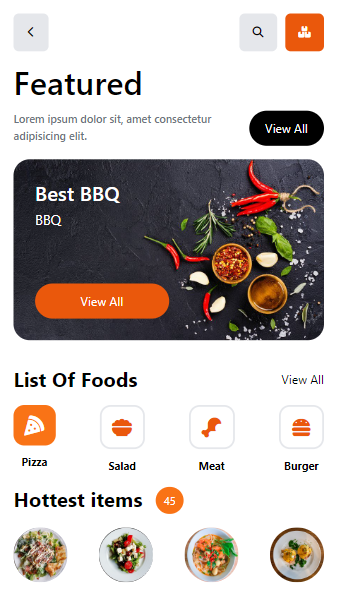
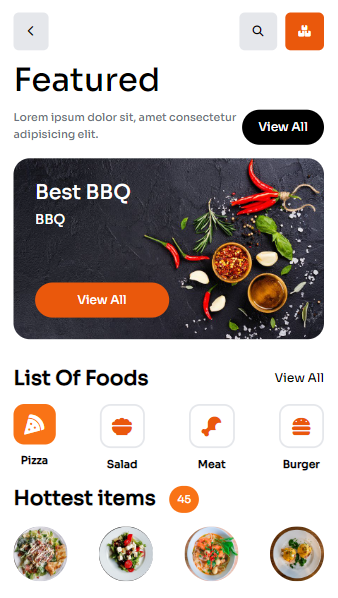
mob-website

diff --git a/mob-website/menu.html b/mob-website/menu.html
@@ -1,0 +1,97 @@
+<!DOCTYPE html>
+<html lang="en">
+<head>
+    <meta charset="UTF-8">
+    <meta http-equiv="X-UA-Compatible" content="IE=edge">
+    <meta name="viewport" content="width=device-width, initial-scale=1.0">
+    
+    <link rel="preconnect" href="https://fonts.googleapis.com">
+    <link rel="preconnect" href="https://fonts.gstatic.com" crossorigin>
+    <link href="https://fonts.googleapis.com/css2?family=Montserrat:wght@500&family=Sora:wght@500&display=swap" rel="stylesheet">
+    <script src="https://kit.fontawesome.com/4b7aa54d95.js" crossorigin="anonymous"></script>
+    <script src="https://cdn.tailwindcss.com?plugins=forms,typography,aspect-ratio,line-clamp"></script>
+    <link rel="stylesheet" href="https://cdn.jsdelivr.net/npm/swiper@8/swiper-bundle.min.css"
+/>
+    <title>Menu</title>
+    <style>
+        body {
+            font-family: 'Montserrat', sans-serif;
+font-family: 'Sora', sans-serif;
+    }
+    </style>
+</head>
+<body>
+    <body>
+    <section class="p-5 bg-gray-50 h-screen">
+        <form class="flex items-center w-full ">   
+            <label for="simple-search " class="sr-only">Search</label>
+            <div class="relative w-full ">
+                <div class="absolute inset-y-0 left-0 flex items-center pl-3 pointer-events-none">
+                    <svg aria-hidden="true" class="w-7 h-7 text-gray-500 dark:text-gray-400" fill="currentColor" viewBox="0 0 20 20" xmlns="http://www.w3.org/2000/svg"><path fill-rule="evenodd" d="M8 4a4 4 0 100 8 4 4 0 000-8zM2 8a6 6 0 1110.89 3.476l4.817 4.817a1 1 0 01-1.414 1.414l-4.816-4.816A6 6 0 012 8z" clip-rule="evenodd"></path></svg>
+                </div>
+                <input type="text" id="simple-search" class="rounded-full text-gray-900 border-0 bg-gray-200 w-full pl-14 p-4  " placeholder="Search Food" required>
+            </div>
+        </form>
+        <div class="flex flex-wrap flex-col  mt-5">
+            <img class="flex flex-col justify-start h-56 bg-cover object-cover w-full rounded-3xl " src="images/Fresh herbs and spices on black stone table featuring herb, condiment, and.jfif">
+            <h1 class="font-bold text-3xl mt-5">Cafe De Bambaa</h1>
+            <p class=" font-bold text-gray-400">Cola+Fries n Drinks<i class="fa-solid fa-star ml-10  text-orange-600"> 4.3k</i> </p>
+        </div>
+        <div class="flex justify-between mt-5">
+            <h2 class="text-black font-bold text-3xl">Recent items</h2>
+            <button class=" text-orange-600 border-0 focus:outline-none hover:text-orange-700 rounded-full text-lg">View All</button>
+        </div>
+        <div class="container flex mt-5 ">
+            <img src="images/pexels-brett-jordan-2297961.jpg" class="w-20 rounded-3xl">
+            <div class=" flex flex-col justify-center ml-5">
+               <h1 class="text-2xl font-bold" >Mulberry Pizza by Josh</h1>
+              <h2 class="text-gray-400 font-bold text-sm">Cola + Waffles n Food</h2>
+              <p class=" font-bold text-gray-400 text-sm "><i class="fa-solid fa-star text-orange-600"> 4k</i> (289 Ratings)</p>
+            </div>
+            
+        </div>
+        <div class="container flex mt-5 ">
+            <img src="images/pexels-jan-n-g-u-y-e-n-🍁-699953.jpg" class="w-20 rounded-3xl">
+            <div class=" flex flex-col justify-center ml-5">
+               <h1 class="text-2xl font-bold" >Pizza rush hours</h1>
+              <h2 class="text-gray-400 text-sm font-bold ">Cola + Waffles n Food</h2>
+              <p class=" font-bold text-gray-400 text-sm"><i class="fa-solid fa-star text-orange-600"> 3k</i> (254 Ratings)</p>
+            </div>
+            
+        </div>
+        <div class="container flex mt-5 ">
+            <img src="images/pexels-iina-luoto-1211887.jpg" class="w-20 rounded-3xl">
+            <div class=" flex flex-col justify-center ml-5">
+               <h1 class="text-2xl font-bold " >Barita</h1>
+              <h2 class="text-gray-400 font-bold text-sm">Cola + Waffles n Food</h2>
+              <p class=" font-bold text-gray-400 text-sm"><i class="fa-solid fa-star text-orange-600"> 3.5k</i> (124 Ratings)</p>
+            </div>
+            
+        </div>
+          <button class="flex mx-auto mt-20 text-white bg-indigo-500 border-0 py-2 px-8 focus:outline-none hover:bg-indigo-600 rounded text-lg">Button</button>
+        </div>
+      </section>
+        <div class="footer fixed bottom-0 w-full flex flex-wrap justify-between bg-white ">
+            <div class="left-nav-bar flex basis-2/6 relative z-10 p-5 justify-between text-gray-600 items-end "> 
+                <i class="fa-solid fa-boxes-stacked text-2xl"></i>
+                <i class="fa-solid fa-heart text-2xl"></i>
+            </div>
+            <div class="before:content-[''] relative top-0 h-5 -left-11 w-8 bg-gray-50"> 
+                <div class="psuedo before:content-['']  top-0 h-5 -left-11 w-8 rounded-tr-full bg-white"></div>
+                </div>
+            <div class="rounded-br-full -mt-10 flex flex-col basis-1/5 rounded-bl-full  -mr-16 -ml-16 rounded-tl-3xl rounded-tr-3xl bg-gray-50">
+                <div class="center-nav-bar p-8 just9ify-center mr-10 ml-10 rounded-full bg-black">
+                  <a class="" href="http://127.0.0.1:5500/index.html">  <i class="fa-solid fa-house text-3xl text-white"></i></a>
+                </div> 
+            </div>
+            <div class="after:content-[''] relative h-5 -right-11 w-8 bg-gray-50">
+                <div class=" after:content-[''] top-0 h-5 -right-11 w-8 rounded-tl-full bg-white"></div>
+                </div>    
+            <div class="right-nav-bar flex basis-2/6 relative z-10 rounded-tl-3xl p-5 justify-between text-gray-600 items-end">
+                <i class="fa-solid fa-user text-2xl"></i>
+                <i class="fa-solid fa-bars text-2xl"></i>
+            </div>
+        </div>
+    
+</body>
+</html>

diff --git a/mob-website/order.html b/mob-website/order.html
@@ -4,18 +4,27 @@
     <meta charset="UTF-8">
     <meta http-equiv="X-UA-Compatible" content="IE=edge">
     <meta name="viewport" content="width=device-width, initial-scale=1.0">
-    <link rel="stylesheet" href="css/styles.css">
+    <link rel="preconnect" href="https://fonts.googleapis.com">
+<link rel="preconnect" href="https://fonts.gstatic.com" crossorigin>
+<link href="https://fonts.googleapis.com/css2?family=Montserrat:wght@500&family=Sora:wght@500&display=swap" rel="stylesheet">
+    
     <script src="https://kit.fontawesome.com/4b7aa54d95.js" crossorigin="anonymous"></script>
     <script src="https://cdn.tailwindcss.com?plugins=forms,typography,aspect-ratio,line-clamp"></script>
     <link rel="stylesheet" href="https://cdn.jsdelivr.net/npm/swiper@8/swiper-bundle.min.css"
 />
     <title>Order</title>
+    <style>
+        body {
+            font-family: 'Montserrat', sans-serif;
+font-family: 'Sora', sans-serif;
+    }
+    </style>
 </head>
 <body class="flex flex-col min-h-screen">
     <section class="body-font h-screen p-5 ">
         <div class="container flex flex-wrap justify-between ">
-            <i class="fa-solid fa-chevron-left bg-gray-200 rounded-lg mx-auto p-5 ml-0"></i>
-            <i class="fa-solid fa-boxes-stacked p-5 bg-gray-200 text-black rounded-lg ml-3"></i>
+          <a class="bg-gray-200 rounded-lg mx-auto p-5 px-6 ml-0" href="http://127.0.0.1:5500/index.html"> <i class="fa-solid fa-chevron-left "></i></a>
+           <a class="p-5 bg-gray-200 text-black rounded-lg px-6 ml-3" href="#"> <i class="fa-solid fa-boxes-stacked "></i></a>
         </div>
         <div class="slider-sec mt-5">
             <div class="swiper h-fit ">
@@ -26,8 +35,8 @@
                   ...
                 </div>
                 <!-- <div class="swiper-pagination"></div> -->
-                <div class="swiper-button-prev text-black"></div>
-                <div class="swiper-button-next text-black"></div>
+                <!-- <div class="swiper-button-prev text-black"></div>
+                <div class="swiper-button-next text-black"></div> -->
                 <!-- <div class="swiper-scrollbar"></div> -->
               </div>
         </div>
@@ -66,22 +75,21 @@
             <div class=" fixed bottom-0 flex flex-wrap justify-between items-center p-2 rounded-full w-full bg-black mt-auto ">
                 <button class="text-black font-bold bg-white py-4 px-8 border-0 focus:outline-none hover:text-orange-700 rounded-full text-lg">$70</button>
                 <p class="text-center font-bold text-white text-2xl">Add to Cart</p>
-                <button class="text-black bg-white py-4 px-8 border-0 focus:outline-none hover:text-orange-700 rounded-full text-lg">$70</button>
+                <i class="fa-solid fa-bag-shopping text-black bg-white py-4 px-8 border-0 hover:text-orange-700 rounded-full text-lg"></i>
             </div>
         </div>
     </section>
     <script src="https://cdn.jsdelivr.net/npm/swiper@8/swiper-bundle.min.js"></script>
     <script>
         const swiper = new Swiper('.swiper', {
-  // Optional parameters
+  
   
 
-  // If we need pagination
-  pagination: {
+ pagination: {
     el: '.swiper-pagination',
+    clickable: true,
   },
 
-  // Navigation arrows
   navigation: {
     nextEl: '.swiper-button-next',
     prevEl: '.swiper-button-prev',

diff --git a/mob-website/products.html b/mob-website/products.html
@@ -4,31 +4,40 @@
     <meta charset="UTF-8">
     <meta http-equiv="X-UA-Compatible" content="IE=edge">
     <meta name="viewport" content="width=device-width, initial-scale=1.0">
-    <link rel="stylesheet" href="css/styles.css">
+    <link rel="preconnect" href="https://fonts.googleapis.com">
+<link rel="preconnect" href="https://fonts.gstatic.com" crossorigin>
+<link href="https://fonts.googleapis.com/css2?family=Montserrat:wght@500&family=Sora:wght@500&display=swap" rel="stylesheet">
     <script src="https://kit.fontawesome.com/4b7aa54d95.js" crossorigin="anonymous"></script>
     <script src="https://cdn.tailwindcss.com?plugins=forms,typography,aspect-ratio,line-clamp"></script>
     <title>Featured</title>
+    <style>
+        body {
+            font-family: 'Montserrat', sans-serif;
+font-family: 'Sora', sans-serif;
+    }
+    </style>
 </head>
 <body>
+    
     <section class="body-font h-screen p-5">
         <div class="container flex flex-wrap  ">
-            <i class="fa-solid fa-chevron-left bg-gray-200 rounded-lg mx-auto p-5 ml-0"></i>
+          <a class="bg-gray-200 rounded-lg mx-auto p-5 px-6 ml-0" href="http://127.0.0.1:5500/index.html">  <i class="fa-solid fa-chevron-left "></i></a>
             <div class="icons flex justify-">
-                <i class="fa-solid fa-magnifying-glass p-5 bg-gray-200 rounded-lg"></i>
-                <i class="fa-solid fa-boxes-stacked p-5 bg-orange-600 text-white rounded-lg ml-3"></i>
+            <a class="p-5 bg-gray-200 rounded-lg" href="http://127.0.0.1:5500/menu.html">    <i class="fa-solid fa-magnifying-glass "></i></a>
+            <a class="p-5 bg-orange-600 text-white rounded-lg ml-3" href="#"><i class="fa-solid fa-boxes-stacked "></i></a>
             </div>
         </div>
         <h1 class="flex flex-wrap text-5xl mt-5 font-medium">Featured</h1>
         <div class="flex justify-between mt-5">
             <p class="text-gray-500 font-medium">Lorem ipsum dolor sit, amet consectetur <br>adipisicing elit.</p>
-            <button class=" text-white bg-black border-0 py-3 px-6 focus:outline-none hover:bg-orange-700 rounded-full text-lg">View All</button>
+          <a href="http://127.0.0.1:5500/menu.html">  <button class=" text-white bg-black border-0 py-3 px-6 focus:outline-none hover:bg-orange-700 rounded-full text-lg">View All</button></a>
         </div>
         </div>
         <div class="flex flex-wrap justify-center mt-5">
             <div class="menu flex flex-col justify-start lg:w-2/6 md:w-3/6 w-full mb-10 object-cover bg-cover object-center p-8 rounded-3xl" style="background-image: url(images/Fresh\ herbs\ and\ spices\ on\ black\ stone\ table\ featuring\ herb\,\ condiment\,\ and.jfif);">
                 <h1 class="text-white text-3xl font-medium">Best BBQ</h1>
                 <h2 class="text-white mt-2 text-xl">BBQ</h2>
-                <button class=" text-white w-1/2 bg-orange-600 border-0 py-3 px-6 mt-20 focus:outline-none hover:bg-orange-700 rounded-full text-lg">View All</button>
+                <a href="http://127.0.0.1:5500/menu.html"> <button class=" text-white w-1/2 bg-orange-600 border-0 py-3 px-6 mt-20 focus:outline-none hover:bg-orange-700 rounded-full text-lg">View All</button></a>
             </div> 
         </div>
         <div class="flex justify-between items-center">

diff --git a/mob-website/thankyou.html b/mob-website/thankyou.html
@@ -1,0 +1,38 @@
+<!DOCTYPE html>
+<html lang="en">
+<head>
+    <meta charset="UTF-8">
+    <meta http-equiv="X-UA-Compatible" content="IE=edge">
+    <meta name="viewport" content="width=device-width, initial-scale=1.0">
+    <link rel="preconnect" href="https://fonts.googleapis.com">
+<link rel="preconnect" href="https://fonts.gstatic.com" crossorigin>
+<link href="https://fonts.googleapis.com/css2?family=Montserrat:wght@500&family=Sora:wght@500&display=swap" rel="stylesheet">
+    
+    <script src="https://kit.fontawesome.com/4b7aa54d95.js" crossorigin="anonymous"></script>
+    <script src="https://cdn.tailwindcss.com?plugins=forms,typography,aspect-ratio,line-clamp"></script>
+    <link rel="stylesheet" href="https://cdn.jsdelivr.net/npm/swiper@8/swiper-bundle.min.css"/>
+    <title>ThankYou</title>
+    <style>
+        body {
+            font-family: 'Montserrat', sans-serif;
+font-family: 'Sora', sans-serif;
+    }
+    </style>
+</head>
+<body>
+    <section class="text-gray-600 body-font">
+        <div class="container mx-auto flex px-5 py-24 items-center justify-center flex-col">
+          <img class="lg:w-2/6 md:w-3/6 w-5/6 mb-10 object-cover object-center rounded-3xl" alt="hero" src="images/Screenshot 2023-01-18 130021.png">
+          <div class="text-center lg:w-2/3 w-full">
+            <h1 class="title-font sm:text-4xl text-5xl mb-3 text-center font-medium text-gray-900">Thank You!</h1>
+            <h2 class="title-font sm:text-4xl text-2xl mb-4 text-center font-medium text-gray-900">for your order</h2>
+            <p class="mb-8 leading-relaxed text-center">Meggings kinfolk echo park stumptown DIY, kale chips beard jianbing tousled. Chambray dreamcatcher trust fund, kitsch vice godard disrupt ramps hexagon mustache umami snackwave.</p>
+            <div class="flex mt-40 justify-center flex-col items-center text-center">
+              <button class=" bg-black mb-3 text-gray-200 w-full font-medium text-xl border-0 py-4 px-6 focus:outline-none rounded-full ">Track My Order</button>
+            <a href="http://127.0.0.1:5500/index.html">  <button class="border-0 py-4 w-full text-gray-500 px-6 font-medium text-xl focus:outline-none rounded-full">Back To Home</button></a>
+            </div>
+          </div>
+        </div>
+    </section>
+</body>
+</html>

diff --git a/mob-website/index.html b/mob-website/index.html
@@ -4,9 +4,18 @@
     <meta charset="UTF-8">
     <meta http-equiv="X-UA-Compatible" content="IE=edge">
     <meta name="viewport" content="width=device-width, initial-scale=1.0">
-    <link rel="stylesheet" href="css/styles.css">
+    <link rel="preconnect" href="https://fonts.googleapis.com">
+    <link rel="preconnect" href="https://fonts.gstatic.com" crossorigin>
+    <link href="https://fonts.googleapis.com/css2?family=Montserrat:wght@500&family=Sora:wght@500&display=swap" rel="stylesheet">
+        
     <script src="https://cdn.tailwindcss.com?plugins=forms,typography,aspect-ratio,line-clamp"></script>
     <title>Home</title>
+    <style>
+      body {
+          font-family: 'Montserrat', sans-serif;
+font-family: 'Sora', sans-serif;
+  }
+  </style>
 </head>
 <body>
     <section class=" body-font bg-cover " style="background-image: linear-gradient(rgba(0,0,0,0.5),rgba(0,0,0,0.5)), url('images/Gourmet\ Steak\ Barbecue\ Promotion\ H5\ Background\ Material.jfif')">
@@ -16,7 +25,7 @@
             <h1 class="title-font sm:text-4xl text-7xl mb-4 font-medium text-white">Cooking Experience Like a Chef</h1>
             <p class="mb-8 leading-relaxed text-gray-300">Let's make a delicious dish with the best<br> recipe for the family</p>
             <div class="flex justify-end">
-              <button class="inline-flex text-white bg-orange-600 border-0 py-2 px-6 focus:outline-none hover:bg-orange-700 rounded-full text-lg">Next</button>
+              <a href="http://127.0.0.1:5500/products.html"><button class="inline-flex text-white bg-orange-600 border-0 py-2 px-6 focus:outline-none hover:bg-orange-700 rounded-full text-lg">Next</button></a>
             </div>
           </div>
         </div>

diff --git a/mob-website/css/styles.css b/mob-website/css/styles.css
@@ -1,7 +1,6 @@
 * {
     margin: 0;
     padding: 0;
-    font-family: system-ui, -apple-system, BlinkMacSystemFont, 'Segoe UI', Roboto, Oxygen, Ubuntu, Cantarell, 'Open Sans', 'Helvetica Neue', sans-serif;
     box-sizing: border-box;
   }
 
